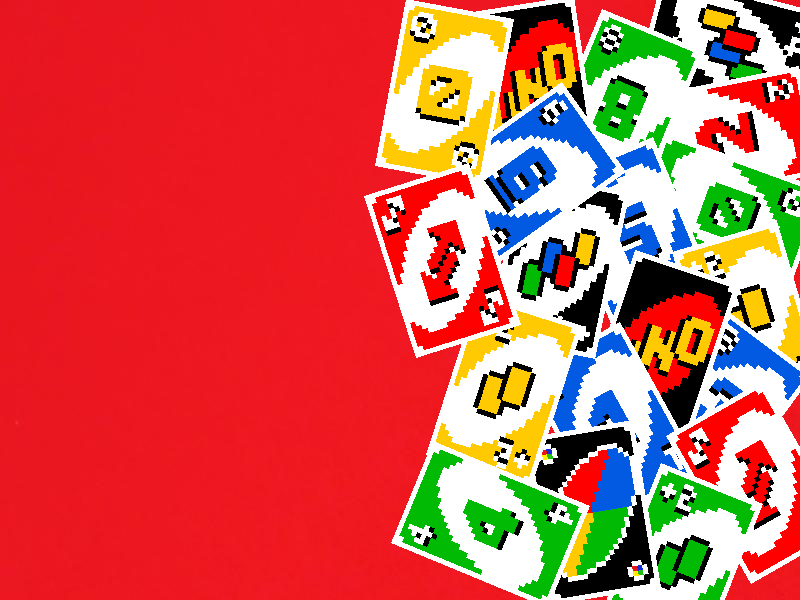
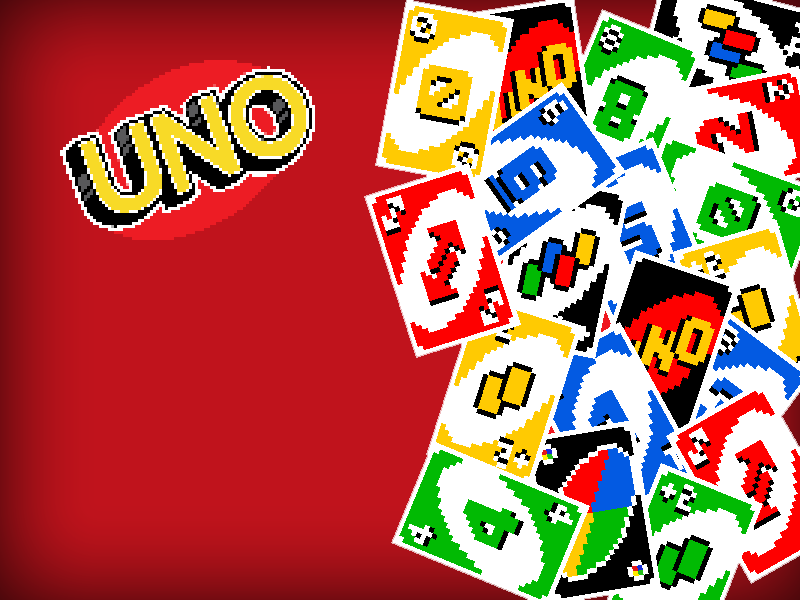
feat: change background

diff --git a/src/core/client.py b/src/core/client.py
@@ -51,10 +51,3 @@ class Client(Engine):
         # Desenha o fundo
         self.surface.blit(Gfx.BACKGROUND, (0, 0))
 
-        # Deixa tela escura
-        transparent = pygame.Surface((self.width, self.height), pygame.SRCALPHA)
-        transparent.fill((0, 0, 0, 50))
-        self.surface.blit(transparent, (0, 0))
-
-        # Desenha o logo
-        self.surface.blit(Gfx.LOGO, (50, 50))

diff --git a/src/core/graphics/gfx.py b/src/core/graphics/gfx.py
@@ -3,4 +3,4 @@ import pygame
 
 class Gfx:
     BACKGROUND = pygame.image.load("src/assets/images/background.png")
-    LOGO = pygame.image.load("src/assets/images/logo.png")
+
